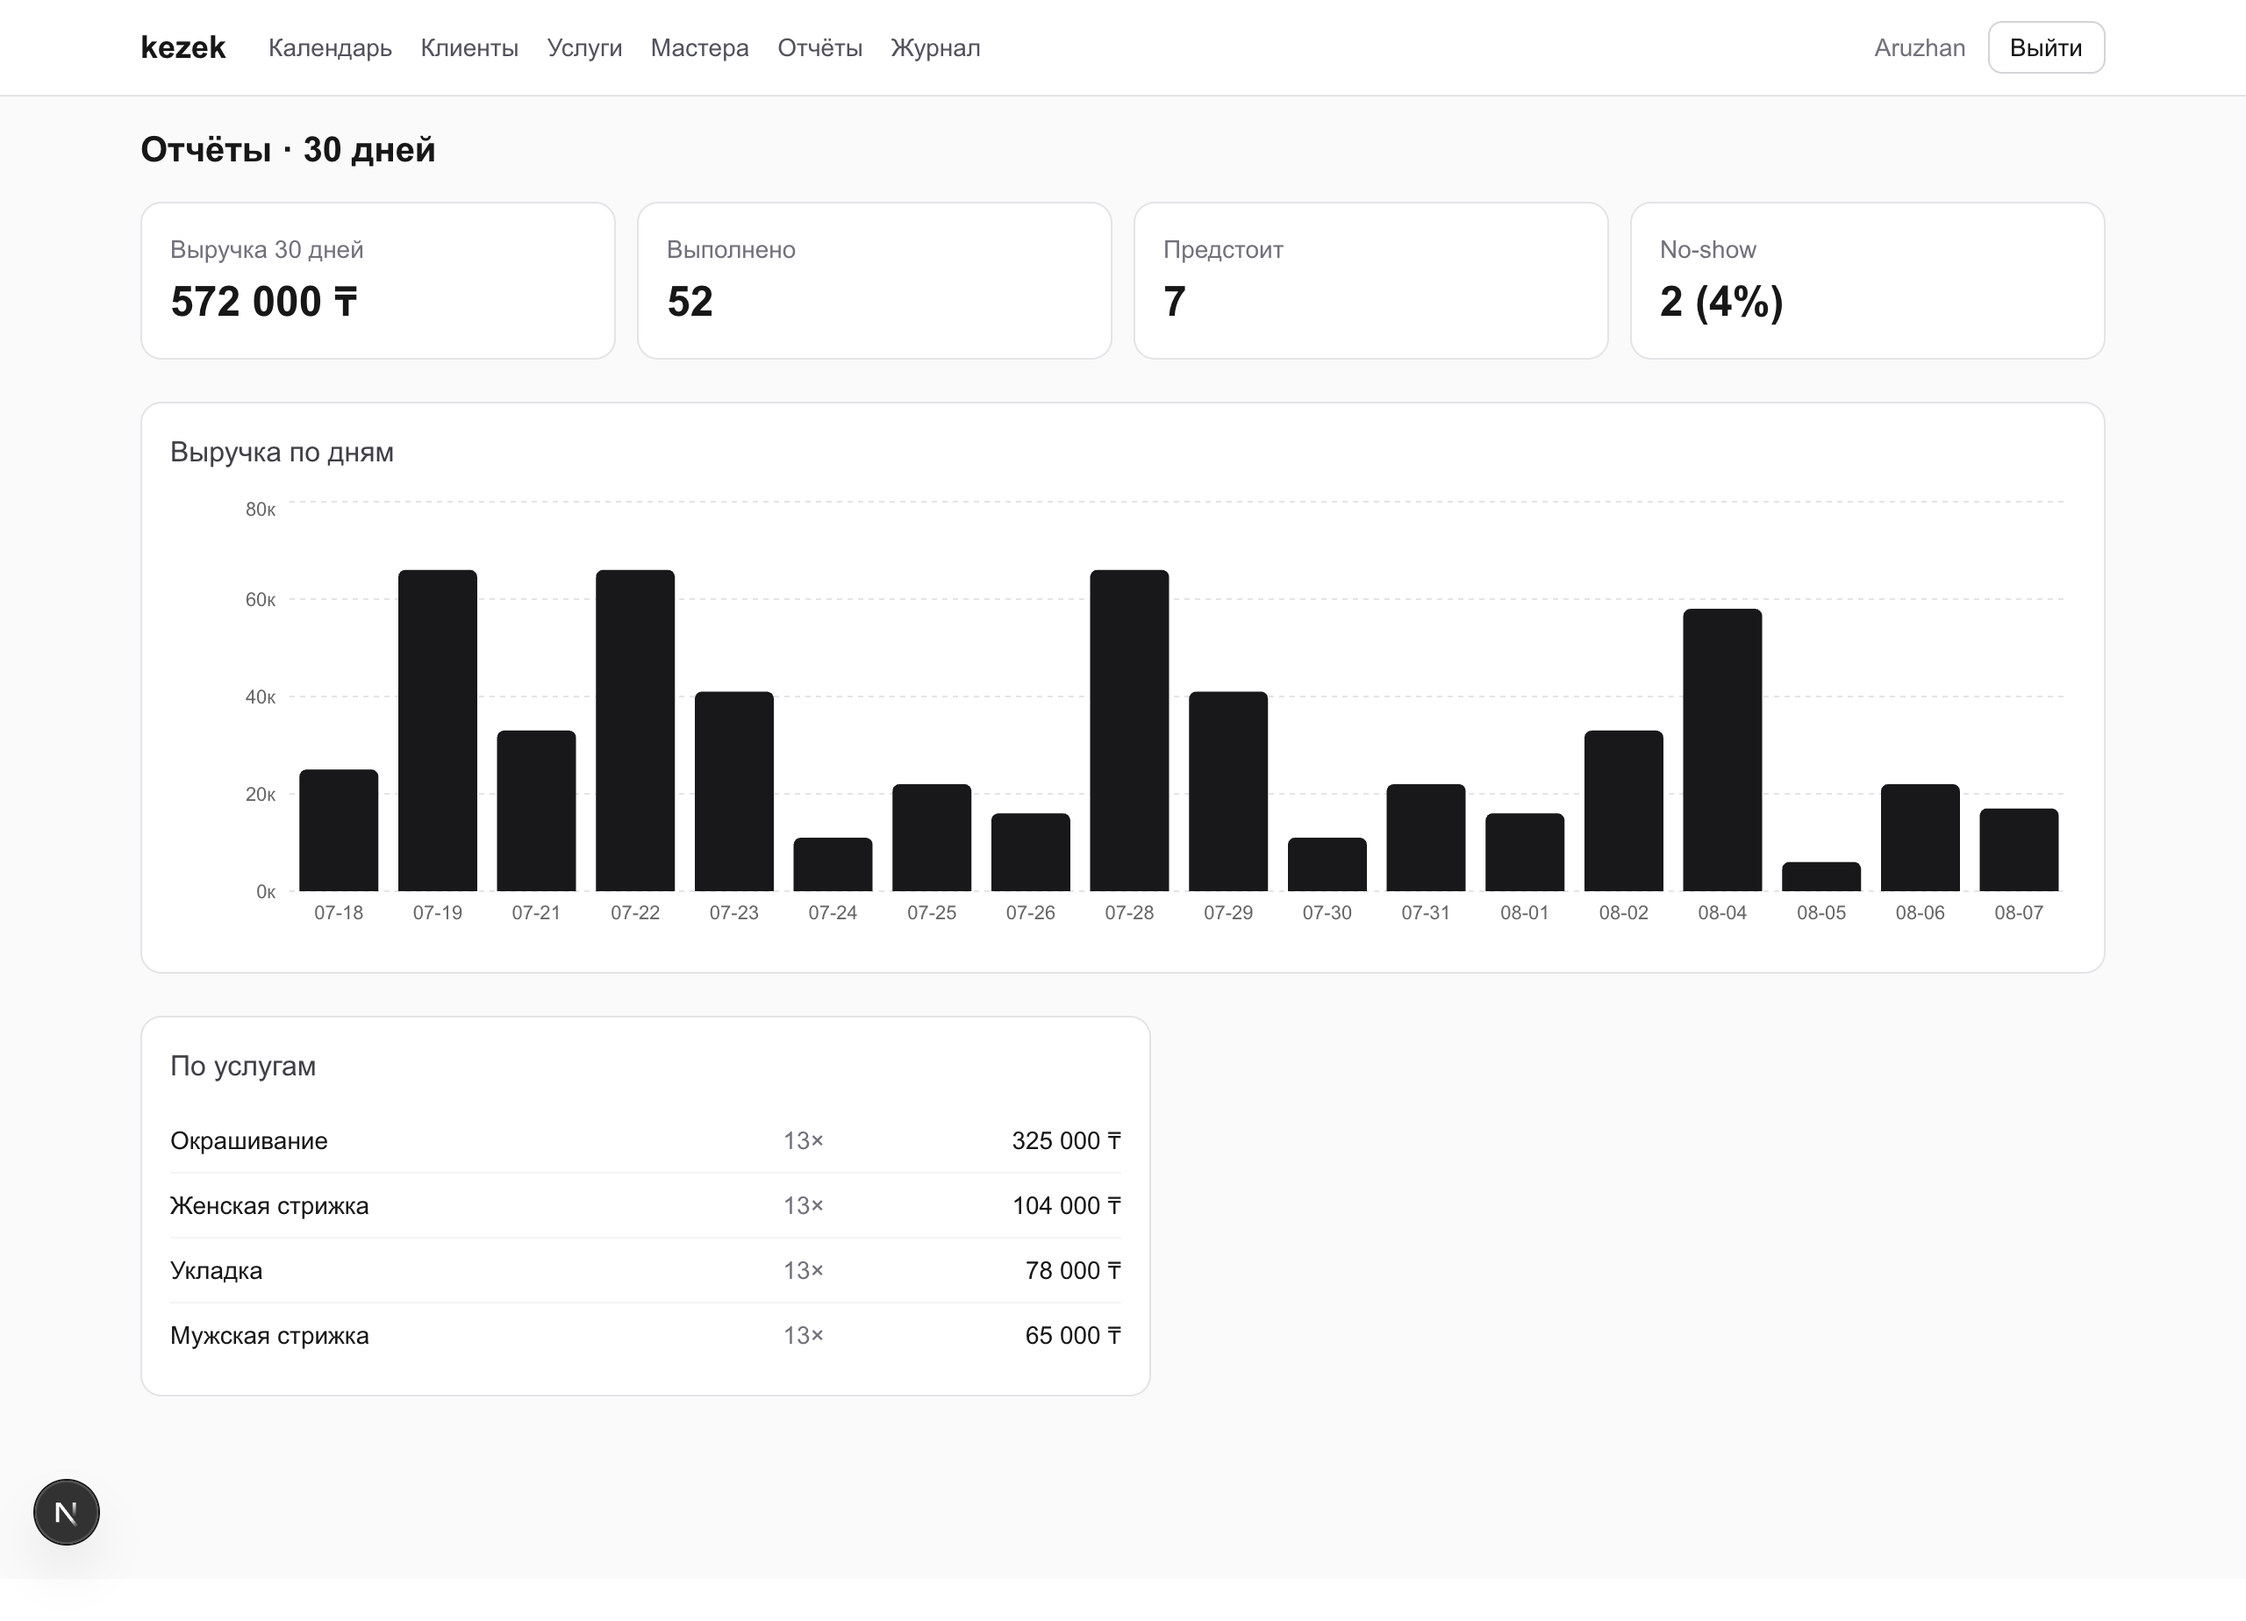
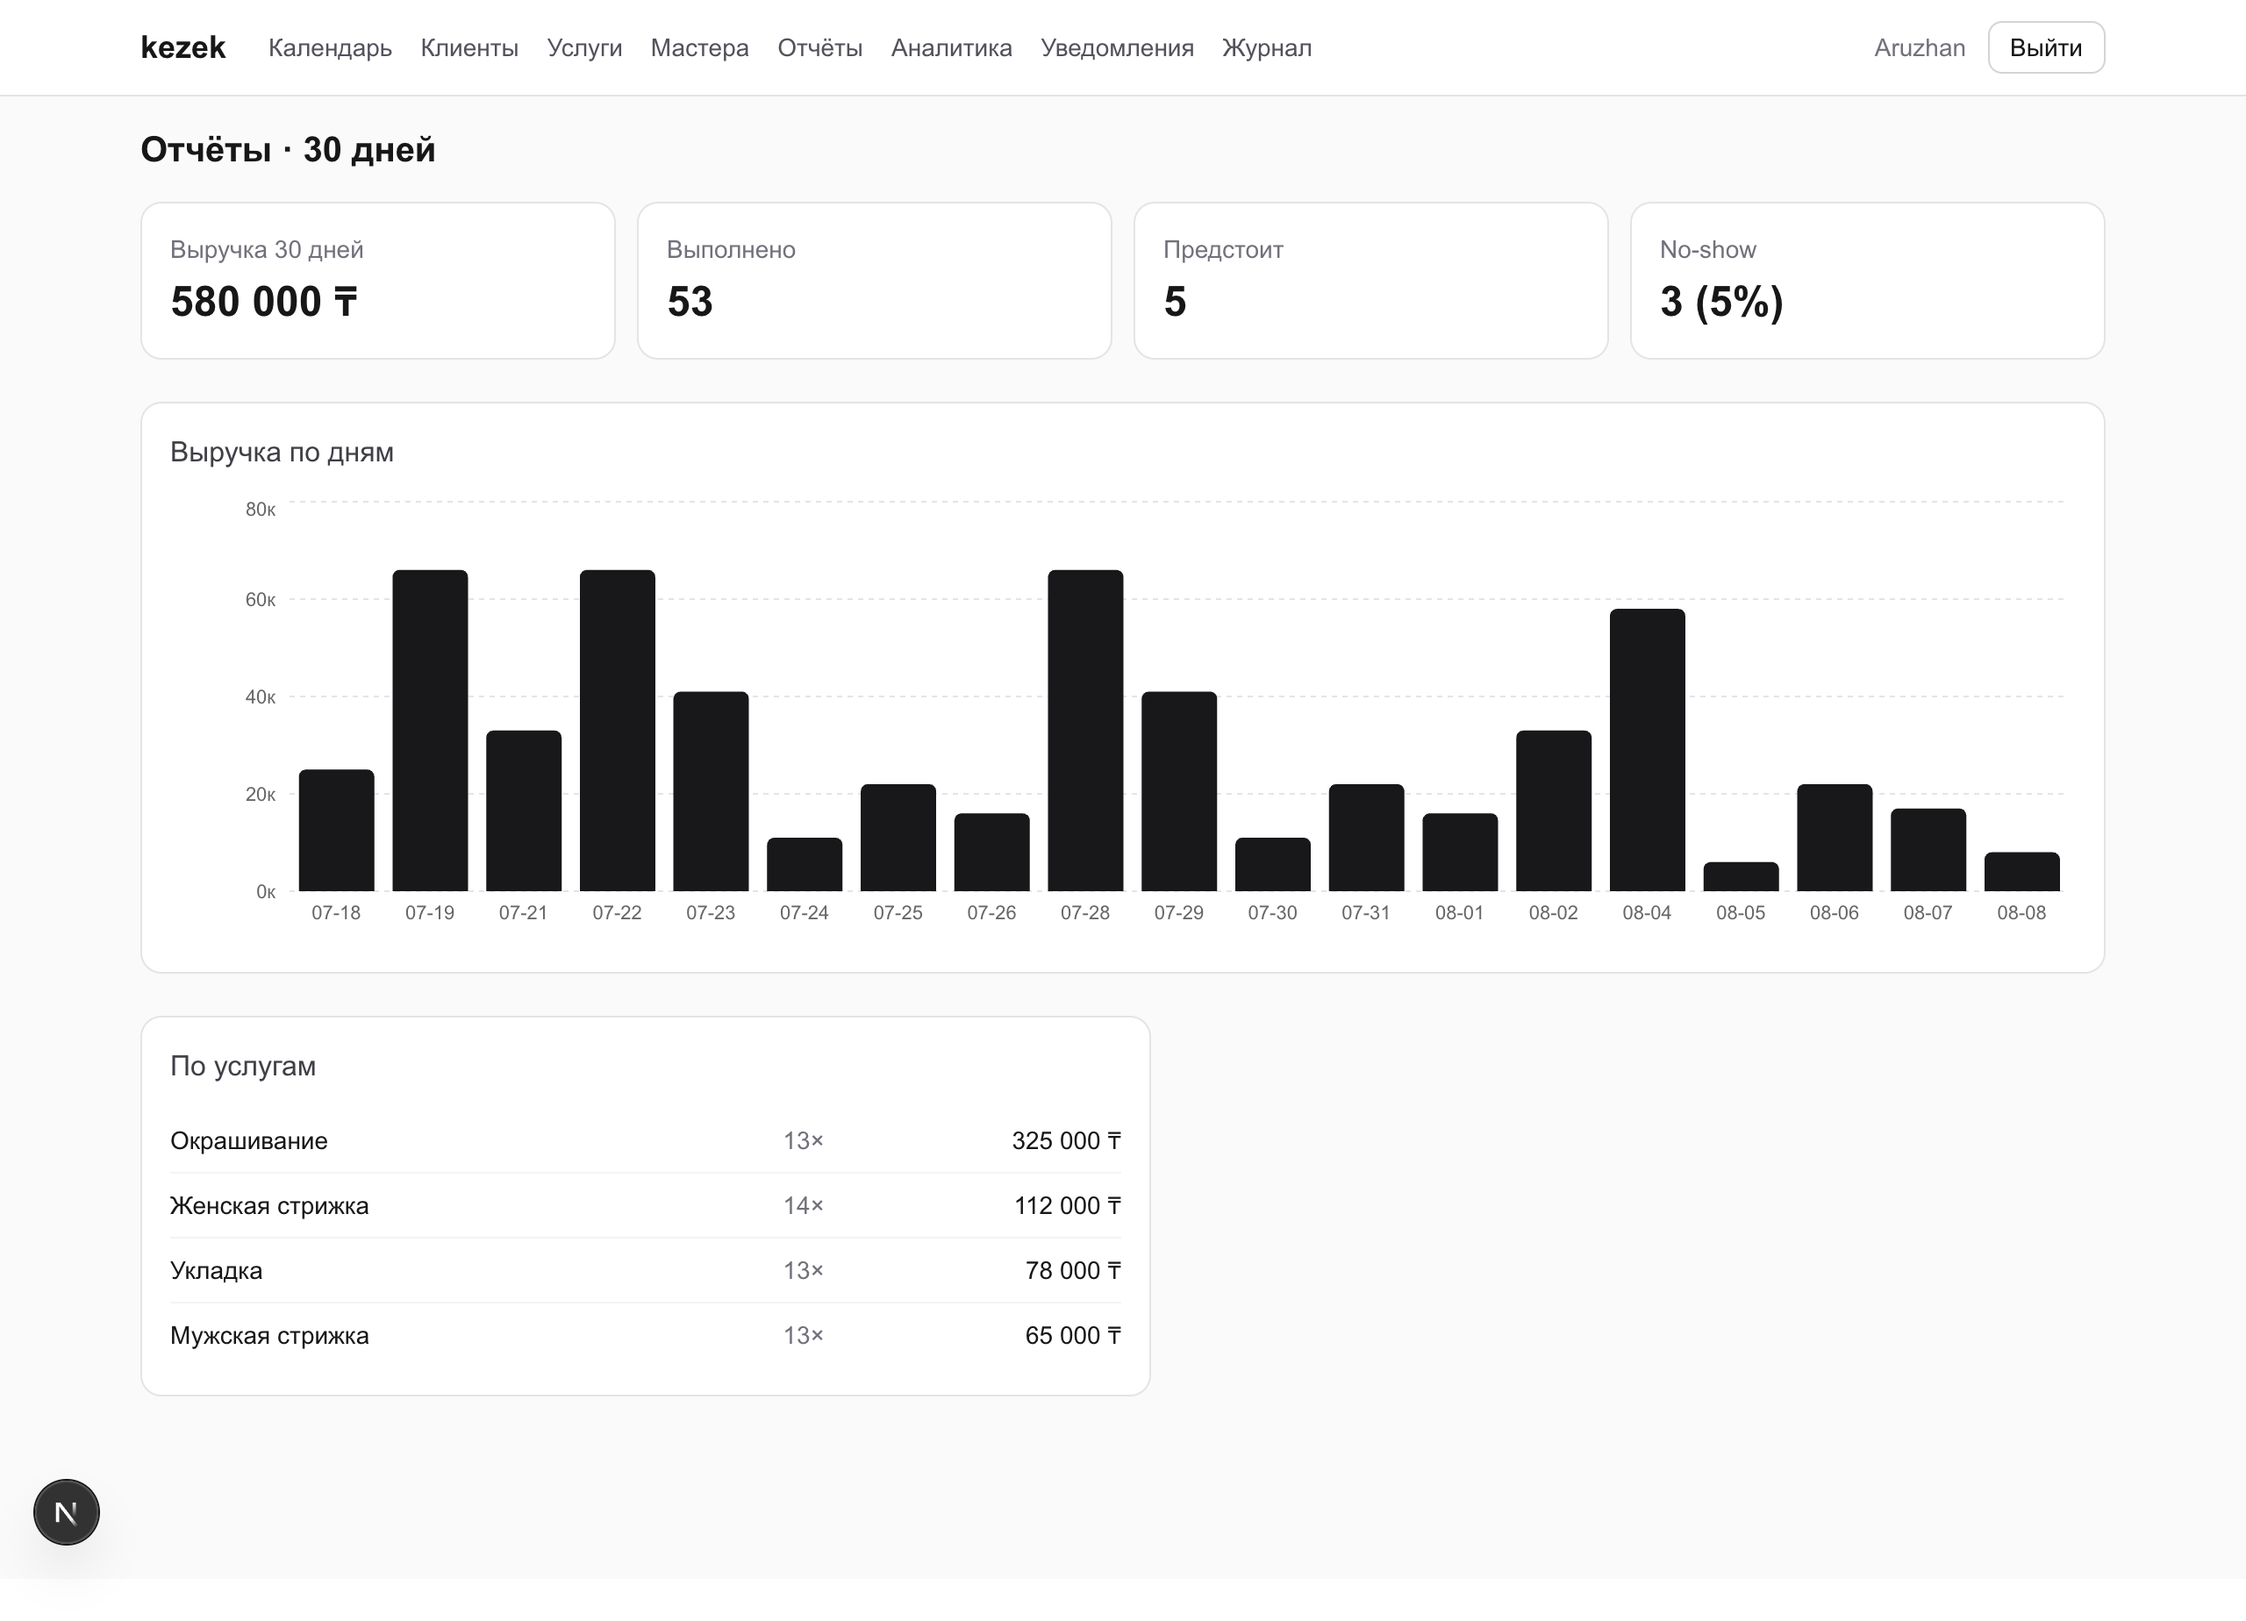
docs: README for the outbox, waitlist and analytics; seed queues demo notifications

Changed region(s): [[0.25, 0.3393, 0.9375, 0.586], [0.1562, 0.3701, 0.2188, 0.5552], [0.2188, 0.5552, 0.25, 0.586]]

diff --git a/src/db/seed.ts b/src/db/seed.ts
@@ -11,6 +11,9 @@ async function main() {
   const db = drizzle(pool, { schema: s });
 
   // Idempotent: wipe and re-seed.
+  await db.delete(s.messageLog);
+  await db.delete(s.outbox);
+  await db.delete(s.waitlistEntries);
   await db.delete(s.auditLog);
   await db.delete(s.bookings);
   await db.delete(s.clients);
@@ -136,7 +139,30 @@ async function main() {
       i++;
     }
   }
-  await db.insert(s.bookings).values(rows);
+  const inserted = await db.insert(s.bookings).values(rows).returning();
+
+  // Queue the messages the upcoming bookings would have produced, so the
+  // notifications page has something to show and `pnpm worker` has work to do.
+  const upcoming = inserted.filter((b) => b.status === "confirmed");
+  if (upcoming.length > 0) {
+    await db.insert(s.outbox).values(
+      upcoming.flatMap((b) => [
+        {
+          businessId: biz.id,
+          topic: "booking.confirmed",
+          payload: { bookingId: b.id },
+          dedupeKey: `booking.confirmed:${b.id}`,
+        },
+        {
+          businessId: biz.id,
+          topic: "booking.reminder",
+          payload: { bookingId: b.id },
+          dedupeKey: `booking.reminder:${b.id}`,
+          availableAt: new Date(b.startAt.getTime() - 24 * 3600_000),
+        },
+      ]),
+    );
+  }
 
   console.log(`Seeded: business=${biz.slug}, staff=${masters.length}, services=${svc.length}, clients=${cls.length}, bookings=${rows.length}`);
   console.log("Admin login: owner@kezek.dev / kezek-demo");

diff --git a/scripts/screenshots.ts b/scripts/screenshots.ts
@@ -83,6 +83,16 @@ async function main() {
   await page.waitForSelector("table tbody tr");
   await shot(page, "05-clients");
 
+  // 7. Analytics
+  await page.goto(`${BASE}/admin/analytics`, admin);
+  await page.waitForSelector("svg .recharts-line", { timeout: 15_000 });
+  await shot(page, "06-analytics");
+
+  // 8. Notification queue
+  await page.goto(`${BASE}/admin/notifications`, admin);
+  await page.waitForSelector("h1");
+  await shot(page, "07-notifications");
+
   await browser.close();
   console.log(`Screenshots written to ${OUT}/`);
 }

diff --git a/README.md b/README.md
@@ -2,7 +2,7 @@
 
 Online booking platform for service businesses (salons, barbershops, clinics) — **Next.js 16 · PostgreSQL · Redis · Tailwind CSS**.
 
-Clients book a service in a 4-step wizard; the business runs its day from an admin panel with a live calendar, CRM, and revenue reports. Kazakh «кезек» = "queue".
+Clients book a service in a 4-step wizard; the business runs its day from an admin panel with a live calendar, CRM, a waitlist that fills its own cancellations, and analytics. Kazakh «кезек» = "queue".
 
 | Public booking | Slot held while you check out |
 |---|---|
@@ -15,6 +15,14 @@ Clients book a service in a 4-step wizard; the business runs its day from an adm
 **Reports** — 30-day revenue, per-service breakdown, no-show rate:
 
 ![Reports](docs/screenshots/04-reports.png)
+
+**Analytics** — window-function reporting: revenue with a 7-day trailing mean, per-master utilization, cohort retention, Pareto share by client:
+
+![Analytics](docs/screenshots/06-analytics.png)
+
+**Outbox** — every message is queued inside the business transaction and drained by a worker:
+
+![Notification queue](docs/screenshots/07-notifications.png)
 
 ## Why it's interesting under the hood
 
@@ -32,18 +40,44 @@ Even a race that slips past Redis cannot corrupt the calendar — the database r
 
 **The slot engine is pure and unit-tested.** Slot generation (working hours → staff overrides → busy ranges → holds → grid) is plain TypeScript with no I/O, 12 Vitest cases including DST transitions. Timezone math uses the `Intl` API — no date libraries.
 
+**The concurrency claims are tested, not asserted.** The integration suite runs against a real Postgres and Redis and includes the case the design exists for: 100 clients racing for one slot, exactly one of whom may end up with a booking — plus a test that bypasses Redis entirely to prove the exclusion constraint holds on its own, and one that fires ten workers at the outbox to show each message is claimed exactly once.
+
 **Redis does real work**: slot holds, session store (opaque tokens, httpOnly cookie, sliding TTL), per-IP rate limiting on every public endpoint, and pub/sub fan-out.
+
+**Messages cannot disagree with the database.** A booking, its audit entry and its outbound notifications are written in one transaction to a [transactional outbox](src/lib/outbox.ts); a separate worker drains it. Claiming uses `FOR UPDATE SKIP LOCKED` *plus* a lease:
+
+```sql
+WITH due AS (
+  SELECT id FROM outbox
+  WHERE status IN ('pending', 'processing') AND available_at <= now()
+  ORDER BY available_at
+  FOR UPDATE SKIP LOCKED
+  LIMIT $1
+)
+UPDATE outbox o
+SET attempts = o.attempts + 1, status = 'processing',
+    available_at = now() + interval '60 seconds'
+FROM due WHERE o.id = due.id
+RETURNING o.*
+```
+
+Row locks end with the statement, so `SKIP LOCKED` alone would let a second worker re-claim a message milliseconds later. The lease keeps it reserved — and doubles as crash recovery, since a worker that dies mid-delivery only holds the message until the lease lapses. Failures back off exponentially and land in a dead state after `max_attempts`.
+
+**A cancellation refills itself.** Cancelling announces the freed slot through the outbox; the longest-waiting eligible client gets a 15-minute exclusive offer, backed by a Redis hold so no walk-in can take it. The deadline is *itself* an outbox message: when it fires the offer lapses and the slot moves down the queue, returning to public stock once nobody is left. The whole chain inherits the queue's retries and scheduling instead of needing a cron.
+
+**Reporting is SQL, not loops.** [analytics.ts](src/lib/analytics.ts) leans on window functions — a dense calendar joined to daily revenue for a gap-free 7-day trailing mean and running total, per-master utilization measured against the hours actually on offer, cohort retention by month of first visit, and `rank()` with a cumulative revenue share.
 
 ## Stack
 
 | Layer | Choice |
 |---|---|
 | Framework | Next.js 16 (App Router, RSC, server actions, route handlers) |
-| Database | PostgreSQL 16 + Drizzle ORM (10 tables, generated + hand-written migrations) |
+| Database | PostgreSQL 16 + Drizzle ORM (13 tables, generated + hand-written migrations) |
 | Cache / realtime | Redis 7 (ioredis): holds, sessions, rate limits, pub/sub → SSE |
 | UI | Tailwind CSS 4, Recharts |
 | Auth | bcrypt + Redis-backed sessions, middleware-gated `/admin` |
-| Tests | Vitest (pure slot engine), CI: lint + test + migrate + seed + build |
+| Background work | Transactional outbox + worker (`pnpm worker`), leased claiming, exponential backoff |
+| Tests | Vitest — unit (pure slot engine) and integration against live Postgres + Redis. CI runs both. |
 
 ## Run it
 
@@ -76,8 +110,20 @@ Runs on free tiers end to end — Vercel + Neon (Postgres) + Upstash (Redis). St
 - **Catalog** — services CRUD, masters, per-master service assignment (M:N), soft hide
 - **Reports** — 30-day revenue chart, per-service breakdown, no-show rate
 - **Audit log** — every mutation recorded with actor and metadata
-- **Public API** — versionless JSON endpoints (`catalog`, `slots`, `hold`, `book`), all rate-limited, Zod-validated
+- **Waitlist** — a full day offers the queue instead of a dead end; cancellations are offered down it automatically, each offer exclusive for 15 minutes
+- **Notifications** — confirmations and next-day reminders through the outbox; the admin sees the queue, its retries and what was delivered
+- **Analytics** — trailing-mean revenue, master utilization, cohort retention, client Pareto
+- **Public API** — versionless JSON endpoints (`catalog`, `slots`, `hold`, `book`, `waitlist`), all rate-limited, Zod-validated
 
 ## Schema
 
-`users`, `businesses`, `business_hours`, `staff`, `staff_hours` (per-master overrides), `services`, `staff_services` (M:N), `clients` (unique per business+phone), `bookings` (exclusion-constrained), `audit_log` — multi-tenant by design: every row hangs off a `business_id`.
+`users`, `businesses`, `business_hours`, `staff`, `staff_hours` (per-master overrides), `services`, `staff_services` (M:N), `clients` (unique per business+phone), `bookings` (exclusion-constrained), `waitlist_entries`, `outbox`, `message_log`, `audit_log` — multi-tenant by design: every row hangs off a `business_id`.
+
+## Tests
+
+```bash
+pnpm test              # unit — pure slot engine, no services needed
+pnpm test:integration  # against live Postgres + Redis (docker compose up -d)
+```
+
+The integration suite builds its own database from the migrations, runs each file serially against it, and uses a separate Redis index so it never touches your dev data.
